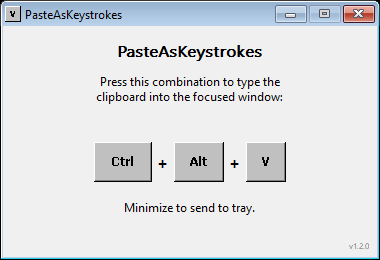
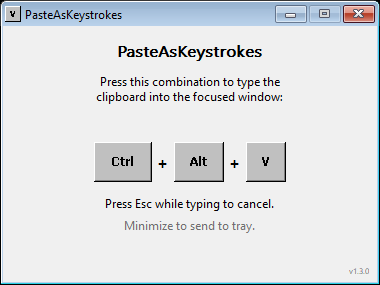
v1.3.0: permite cancelar el pegado en curso con Esc
Al pegar un texto largo (p. ej. un script) ahora se puede abortar el
proceso a mitad pulsando Esc. El bucle de tecleo comprueba
GetAsyncKeyState(VK_ESCAPE) al inicio de cada carácter y, si está
pulsado, emite un beep y detiene el pegado. Es el mismo mecanismo con
el que ya se esperaba a soltar los modificadores del hotkey, fiable con
pulsaciones físicas.

La ventana muestra una línea de ayuda nueva ("Press Esc while typing to
cancel.") y crece a 285 px de alto para acomodarla. Tras el bucle se
liberan los modificadores como medida defensiva ante una cancelación.

diff --git a/paste_as_keystrokes.c b/paste_as_keystrokes.c
@@ -17,7 +17,7 @@
 #define KEY_DELAY_MS 8
 #define KEY_HOLD_MS  8
 #define WARMUP_MS    150
-#define APP_VERSION L"1.2.2"
+#define APP_VERSION L"1.3.0"
 
 static const wchar_t CLASS_NAME[]   = L"PasteAsKeystrokesWnd";
 static const wchar_t WINDOW_TITLE[] = L"PasteAsKeystrokes";
@@ -281,6 +281,12 @@ static void type_clipboard(void) {
     Sleep(WARMUP_MS);
 
     for (wchar_t *p = text; *p; p++) {
+        /* Abort an in-progress paste if the user presses Esc — useful when
+         * pasting a long script and changing your mind mid-way. */
+        if (GetAsyncKeyState(VK_ESCAPE) & 0x8000) {
+            MessageBeep(MB_ICONWARNING);
+            break;
+        }
         wchar_t c = *p;
         if (c == 0xFEFF && p == text) continue;
         if (c == L'\r') {
@@ -299,6 +305,7 @@ static void type_clipboard(void) {
         }
         Sleep(KEY_DELAY_MS);
     }
+    release_modifiers();
     free(text);
 }
 
@@ -389,10 +396,17 @@ static void draw_window(HWND hwnd) {
     draw_key_90s(hdc, kx + kw_ctrl + gap + kw_alt + gap, key_y, kw_v, key_h, L"V", key_font);
 
     SelectObject(hdc, body_font);
+    RECT esc_rc = rc;
+    esc_rc.top = 170;
+    esc_rc.bottom = esc_rc.top + 20;
+    DrawTextW(hdc, L"Press Esc while typing to cancel.", -1, &esc_rc, DT_CENTER | DT_SINGLELINE);
+
     RECT hint_rc = rc;
-    hint_rc.top = 174;
-    hint_rc.bottom = hint_rc.top + 22;
+    hint_rc.top = 192;
+    hint_rc.bottom = hint_rc.top + 20;
+    SetTextColor(hdc, RGB(112, 112, 112));
     DrawTextW(hdc, L"Minimize to send to tray.", -1, &hint_rc, DT_CENTER | DT_SINGLELINE);
+    SetTextColor(hdc, RGB(0, 0, 0));
 
     HFONT ver_font = CreateFontW(11, 0, 0, 0, FW_NORMAL, FALSE, FALSE, FALSE,
         DEFAULT_CHARSET, OUT_DEFAULT_PRECIS, CLIP_DEFAULT_PRECIS,
@@ -482,7 +496,7 @@ int WINAPI WinMain(HINSTANCE hInst, HINSTANCE hPrev, LPSTR cmd, int show) {
         return 1;
     }
 
-    int w = 380, h = 260;
+    int w = 380, h = 285;
     int x = (GetSystemMetrics(SM_CXSCREEN) - w) / 2;
     int y = (GetSystemMetrics(SM_CYSCREEN) - h) / 2;
 

diff --git a/README.md b/README.md
@@ -20,10 +20,10 @@ Just double-click to run.
 
 ### Verify the binary (optional)
 
-Current build (v1.2.2) SHA-256:
+Current build (v1.3.0) SHA-256:
 
 ```
[2 lines of base64/hex data omitted]
 ```
 
 On Windows: `Get-FileHash PasteAsKeystrokes.exe -Algorithm SHA256`
@@ -43,6 +43,7 @@ To run it: click **More info** → **Run anyway**.
 2. Copy text to the clipboard.
 3. Switch focus to the target window (terminal, password field, etc).
 4. Press **Ctrl + Alt + V**. The text is typed character by character.
+5. Press **Esc** while it is typing to cancel a long paste mid-way.
 
 Minimize the window to send it to the system tray. Right-click the tray
 icon for `Show` / `Exit`. The clipboard is never modified.
